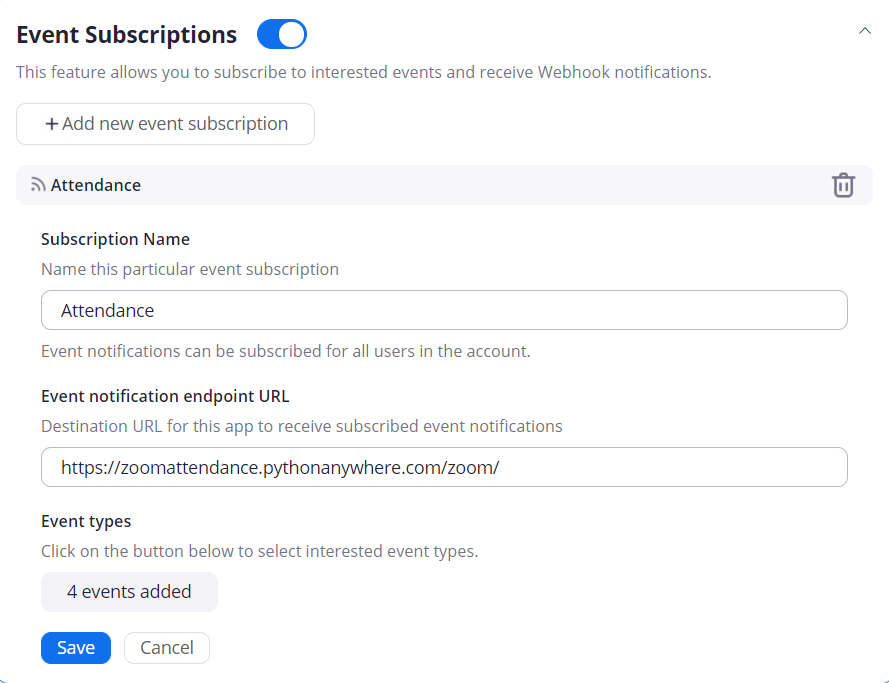
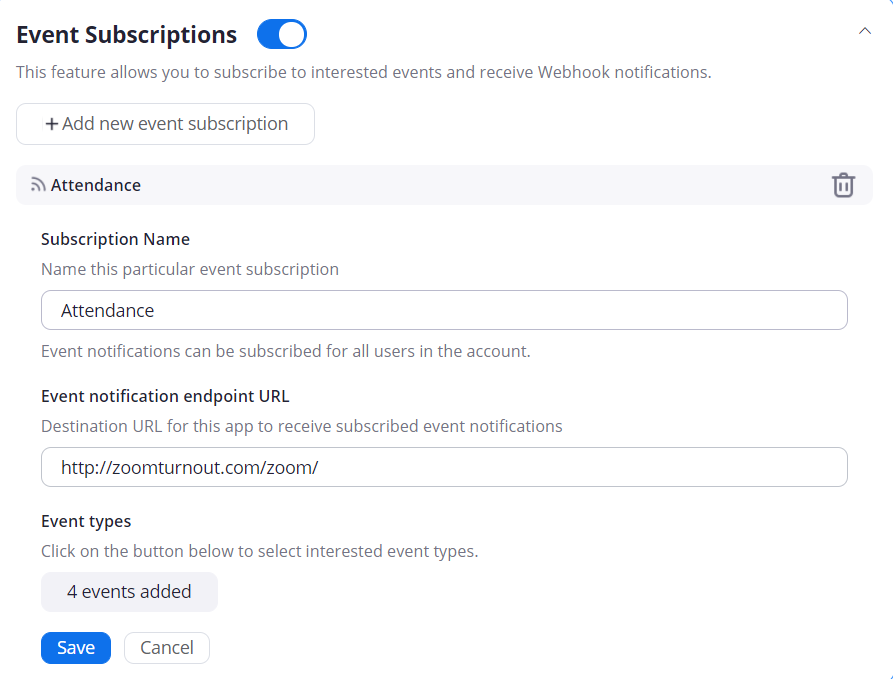
Initial Commit

diff --git a/templates/index.html b/templates/index.html
@@ -52,12 +52,12 @@
 <div class="slider mobileHidden">
   <div class="slide current">
     <div class="content">
-      <h1>Welcome to ZoomAttendance</h1>
+      <h1>Welcome to ZoomTurnout</h1>
     </div>
   </div>
   <div class="slide">
     <div class="content">
-      <h3>ZoomAttendance is a one of a kind tool which can be used to take attendance during Zoom meetings for any kind of account!</h3>
+      <h3>ZoomTurnout is a one of a kind tool which can be used to take attendance during Zoom meetings for any kind of account!</h3>
       <p>
 
       </p>
@@ -93,55 +93,55 @@
 </div>
 
 <div class="container jumbotron  text-center mobileHidden">
-<a id = "About"> <h1 style="font-size:8vh">What is ZoomAttendance</h1></a>
+<a id = "About"> <h1 style="font-size:8vh">What is ZoomTurnout</h1></a>
 <p style="font-size:4vh">
   Zoom Attendance is a plugin which can be used to take attendance during and after meetings.<br> During meetings, it can display all the current participants in the meeting and all those who had joined and left the meeting at that instant. Attendance can be taken from a pre-uploaded list.<br> After each meeting is over, it can be used to display a report of all the participants, i.e., the time when each participant first joined, the time when each participant left the meeting, total duration spent by the participant in the meeting and how many times did the participant leave the meeting.
 </p>
 </div>
 
 <div class="container jumbotron  text-center desktophidden">
-  <a id = "About"> <h1 style="font-size:6vh" >What is ZoomAttendance</h1></a>
+  <a id = "About"> <h1 style="font-size:6vh" >What is ZoomTurnout</h1></a>
   <p style="font-size:3vh">
     Zoom Attendance is a plugin which can be used to take attendance during and after meetings. During meetings, it can display all the current participants in the meeting and all those who had joined and left the meeting at that instant. Attendance can be taken from a pre-uploaded list of names. These lists are uploaded by the user in excel format. After each meeting is over, it can be used to display a report of all the participants, i.e., the time when each participant first joined, the time when each participant left the meeting, total duration spent by the participant in the meeting and how many times did the participant leave the meeting. A flagged section is also available where it will display all the participants who were late to the meeting, who left early and also who did not spend an adequate amount of time in the meeting. The time which is considered to be late, early and the minimum duration can all be set by the user himself.
   </p>
 </div>
 
 <div class="container jumbotron  text-center mobileHidden">
-<a id = "Whyusezoomattendance"> <h1 style="font-size:8vh">Why use ZoomAttendance?</h1></a>
+<a id = "WhyuseZoomTurnout"> <h1 style="font-size:8vh">Why use ZoomTurnout?</h1></a>
 <p style="font-size:4vh">
-  ZoomAttendance generates reports after every meeting which highlights the entry time, leave time and duration spent in meeting of every participant. The teachers can set metrics such as the minimum duration every student must spend in class, how much time after the meeting has started is a student considered to be late, and how early is a student allowed to leave. If any participant fails to follow any of these criteria, they will be flagged by the app. Thus, the teachers do not need to waste their time tracking the entry and exit of every student and can focus solely on teaching.
+  ZoomTurnout generates reports after every meeting which highlights the entry time, leave time and duration spent in meeting of every participant. The teachers can set metrics such as the minimum duration every student must spend in class, how much time after the meeting has started is a student considered to be late, and how early is a student allowed to leave. If any participant fails to follow any of these criteria, they will be flagged by the app. Thus, the teachers do not need to waste their time tracking the entry and exit of every student and can focus solely on teaching.
   </p>
 </div>
 
 <div class="container jumbotron  text-center desktophidden">
-  <a id = "Whyusezoomattendance"> <h1 style="font-size:6vh" >Why use ZoomAttendance?</h1></a>
+  <a id = "WhyuseZoomTurnout"> <h1 style="font-size:6vh" >Why use ZoomTurnout?</h1></a>
   <p style="font-size:3vh">
-    ZoomAttendance generates reports after every meeting which highlights the entry time, leave time and duration spent in meeting of every participant. The teachers can set metrics such as the minimum duration every student must spend in class, how much time after the meeting has started is a student considered to be late, and how early is a student allowed to leave. If any participant fails to follow any of these criteria, they will be flagged by the app. Thus, the teachers do not need to waste their time tracking the entry and exit of every student and can focus solely on teaching.
+    ZoomTurnout generates reports after every meeting which highlights the entry time, leave time and duration spent in meeting of every participant. The teachers can set metrics such as the minimum duration every student must spend in class, how much time after the meeting has started is a student considered to be late, and how early is a student allowed to leave. If any participant fails to follow any of these criteria, they will be flagged by the app. Thus, the teachers do not need to waste their time tracking the entry and exit of every student and can focus solely on teaching.
       </p>
 </div>
 
 <div class="container jumbotron  text-center mobileHidden">
 <a id = ""> <h1 style="font-size:8vh">How to use it?</h1></a>
 <p style="font-size:4vh">
-  To use ZoomAttendance all you need to do is sign up! However, before signing up a few steps need to be taken from your zoom account to enable this app to get data about your meetings from Zoom. The instructions for making these configurations are available <a href="{% url 'setup' %}">here</a>.</p>
+  To use ZoomTurnout all you need to do is sign up! However, before signing up a few steps need to be taken from your zoom account to enable this app to get data about your meetings from Zoom. The instructions for making these configurations are available <a href="{% url 'setup' %}">here</a>.</p>
 </div>
 
 <div class="container jumbotron  text-center desktophidden">
   <a id = ""> <h1 style="font-size:6vh" >How to use it?</h1></a>
   <p style="font-size:3vh">
-    To use ZoomAttendance all you need to do is sign up! However, Before signing up, a few steps need to be taken from your zoom account to enable this app to get data about your meetings from Zoom. The instructions for making these configurations are available <a href="{% url 'setup' %}">here</a>.</p>
+    To use ZoomTurnout all you need to do is sign up! However, Before signing up, a few steps need to be taken from your zoom account to enable this app to get data about your meetings from Zoom. The instructions for making these configurations are available <a href="{% url 'setup' %}">here</a>.</p>
 </div>
 
 <div class="container jumbotron  text-center mobileHidden">
 <a id = "About"> <h1 style="font-size:8vh">How does it work?</h1></a>
 <p style="font-size:4vh">
-  ZoomAttendance uses a feature of Zoom Development called Webhooks. These webhooks send information to ZoomAttendance whenever an event such as a participant joins or leaves the meeting occurs and ZoomAttendance stores it and compiles a list of all such relevant events. These are then converted to readable format and into relevant sections such as reports, flagged participants, etc. All of this happens via the servers of zoom. Thus, it will not interfere with the working of the Zoom Client app on your device or on any of your participants’ devices. Thus, even if the server of ZoomAttendace crashes it will not harm your meetings. Also, if you enable this feature will in no way slow your zoom meetings or cause it to crash. </p>
+  ZoomTurnout uses a feature of Zoom Development called Webhooks. These webhooks send information to ZoomTurnout whenever an event such as a participant joins or leaves the meeting occurs and ZoomTurnout stores it and compiles a list of all such relevant events. These are then converted to readable format and into relevant sections such as reports, flagged participants, etc. All of this happens via the servers of zoom. Thus, it will not interfere with the working of the Zoom Client app on your device or on any of your participants’ devices. Thus, even if the server of ZoomAttendace crashes it will not harm your meetings. Also, if you enable this feature will in no way slow your zoom meetings or cause it to crash. </p>
 </div>
 
 <div class="container jumbotron  text-center desktophidden">
   <a id = "About"> <h1 style="font-size:6vh" >How does it work?</h1></a>
   <p style="font-size:3vh">
-  ZoomAttendance uses a feature of Zoom Development called Webhooks. These webhooks send information to ZoomAttendance whenever an event such as a participant joins or leaves the meeting occurs and ZoomAttendance stores it and compiles a list of all such relevant events. These are then converted to readable format and into relevant sections such as reports, flagged participants, etc. All of this happens via the servers of zoom. Thus, it will not interfere with the working of the Zoom Client app on your device or on any of your participants’ devices. Thus, even if the server of ZoomAttendace crashes it will not harm your meetings. Also, if you enable this feature will in no way slow your zoom meetings or cause it to crash. </p>
+  ZoomTurnout uses a feature of Zoom Development called Webhooks. These webhooks send information to ZoomTurnout whenever an event such as a participant joins or leaves the meeting occurs and ZoomTurnout stores it and compiles a list of all such relevant events. These are then converted to readable format and into relevant sections such as reports, flagged participants, etc. All of this happens via the servers of zoom. Thus, it will not interfere with the working of the Zoom Client app on your device or on any of your participants’ devices. Thus, even if the server of ZoomAttendace crashes it will not harm your meetings. Also, if you enable this feature will in no way slow your zoom meetings or cause it to crash. </p>
 </div>
 
 <style>
@@ -246,19 +246,19 @@ color: #333;
 /* Backgorund Images */
 
 .slide:first-child {
-background: url('https://zoomattendance.pythonanywhere.com/static/accounts/pic1.jpg') no-repeat
+background: url('https://ZoomTurnout.pythonanywhere.com/static/accounts/pic1.jpg') no-repeat
   center top/cover;
 }
 .slide:nth-child(2) {
-background: url('https://zoomattendance.pythonanywhere.com/static/accounts/pic2.jpg') no-repeat
+background: url('https://ZoomTurnout.pythonanywhere.com/static/accounts/pic2.jpg') no-repeat
   center top/cover;
 }
 .slide:nth-child(3) {
-background: url('https://zoomattendance.pythonanywhere.com/static/accounts/pic3.jpg') no-repeat
+background: url('https://ZoomTurnout.pythonanywhere.com/static/accounts/pic3.jpg') no-repeat
   center top/cover;
 }
 .slide:nth-child(4) {
-background: url('https://zoomattendance.pythonanywhere.com/static/accounts/pic4.jpg') no-repeat
+background: url('https://ZoomTurnout.pythonanywhere.com/static/accounts/pic4.jpg') no-repeat
   center top/cover;
 }
 /* .slide:nth-child(5) {

diff --git a/templates/setup.html b/templates/setup.html
@@ -38,16 +38,16 @@
       <div class="text-left"><h4>6) This is the most important step. Please double check the following steps carefully</h4>
       <h4>a) Switch on Event subscriptions by toggling the button</h4>
       <h4>b) Select the 'Add new event subscription' button</h4>
-      <h4>c) Type 'Attendance' in the 'Subcription Name' and this exact url in the 'Event notification url' : http://zoomattendance.pythonanywhere.com/zoom/ . Please do not miss even the last forward slash</h4> </div>
+      <h4>c) Type 'Attendance' in the 'Subcription Name' and this exact url in the 'Event notification url' : http://ZoomTurnout.com/zoom/ . Please do not miss even the last forward slash</h4> </div>
       <img src="{% static "accounts/page9.png" %}" alt="">
       <div class="text-left"><h4>d) Select the 'Add events button' and add <strong>only</strong> the events depicted in the picture. Please select 'done' after adding the event types. </h4></div>
       <img src="{% static "accounts/page6.png" %}" alt="">
       <div class="text-left"><h4>e) Select the 'Save button'</h4></div>
       <div class="text-left"><h4>f) Copy the verification token which appears after pressing save. Please copy this into a temporary file as you will be needing it little later. </h4></div>
       <img src="{% static "accounts/page7.png" %}" alt="">
-      <div class="text-left"><h4>7) You should be getting the following page. If you do not please review all the steps. Please note that if you ever want to deactivate the app, i.e. stop ZoomAttendance from getting data for your zoom account you can do so by pressing the 'deactivate' button.</h4></div>
+      <div class="text-left"><h4>7) You should be getting the following page. If you do not please review all the steps. Please note that if you ever want to deactivate the app, i.e. stop ZoomTurnout from getting data for your zoom account you can do so by pressing the 'deactivate' button.</h4></div>
       <img src="{% static "accounts/page8.png" %}" alt="">
-      <div class="text-left"><h4>8) Go to the ZoomAttendance website and sign up(login if you have created your account). Click on Profile and press on the link to change your verification token. Paste your verification in the text field button and press submit.</h4></div>
+      <div class="text-left"><h4>8) Go to the ZoomTurnout website and sign up(login if you have created your account). Click on Profile and press on the link to change your verification token. Paste your verification in the text field button and press submit.</h4></div>
       <br><br>
       <div class="text-left">
         <h4>Your account should now be ready. You can test it by starting a meeting and going to 'Current meeting' page. If the meeting details is displayed on the window then it confirms that it is working. If it does not work you should try all the steps below:</h4>

diff --git a/templates/base.html b/templates/base.html
@@ -4,7 +4,7 @@
 <html>
   <head>
     <meta charset="utf-8">
-    <title>Zoom Attendance</title>
+    <title>Zoom Turnout</title>
 
   <link href="https://cdn.jsdelivr.net/npm/bootstrap@5.0.1/dist/css/bootstrap.min.css" rel="stylesheet" integrity="sha384-+0n0xVW2eSR5OomGNYDnhzAbDsOXxcvSN1TPprVMTNDbiYZCxYbOOl7+AMvyTG2x" crossorigin="anonymous">
   <script src="https://cdn.jsdelivr.net/npm/bootstrap@5.0.1/dist/js/bootstrap.bundle.min.js" integrity="sha384-gtEjrD/SeCtmISkJkNUaaKMoLD0//ElJ19smozuHV6z3Iehds+3Ulb9Bn9Plx0x4" crossorigin="anonymous"></script>
@@ -48,7 +48,7 @@
 
       <nav class="navbar navbar-expand-lg navbar-light bg-light">
         <div class="container-fluid">
-          <a class="navbar-brand" style="font-size:30px;" href="{% url 'home' %}"><div class="" >ZoomAttendance</div></a>
+          <a class="navbar-brand" style="font-size:30px;" href="{% url 'home' %}"><div class="" >ZoomTurnout</div></a>
           <button class="navbar-toggler" type="button" data-bs-toggle="collapse" data-bs-target="#navbarSupportedContent" aria-controls="navbarSupportedContent" aria-expanded="false" aria-label="Toggle navigation">
             <span class="navbar-toggler-icon"></span>
           </button>
@@ -74,10 +74,10 @@
                         event.preventDefault();
 
                         Swal.fire({
-                          title: "Are you sure about deleting this file?",
+                          title: "Are you sure you want to log out?",
                           icon : 'warning',
                           showCancelButton: true,
-                          confirmButtonText: "Delete It",
+                          confirmButtonText: "Log out",
                           confirmButtonColor: "#ff0055",
                           cancelButtonColor: "#999999",
                           reverseButtons: true,

diff --git a/Main/settings.py b/Main/settings.py
@@ -21,7 +21,7 @@ TEMPLATE_DIR = os.path.join(BASE_DIR,'templates')
 # See https://docs.djangoproject.com/en/3.2/howto/deployment/checklist/
 
 # SECURITY WARNING: keep the secret key used in production secret!
-SECRET_KEY = 
+SECRET_KEY = 'django-insecure-n#5gopw6(*xh2__i&+t(n!2iusl2x169k7#ou-yl*h(3n$95+l'
 
 # SECURITY WARNING: don't run with debug turned on in production!
 DEBUG = True
